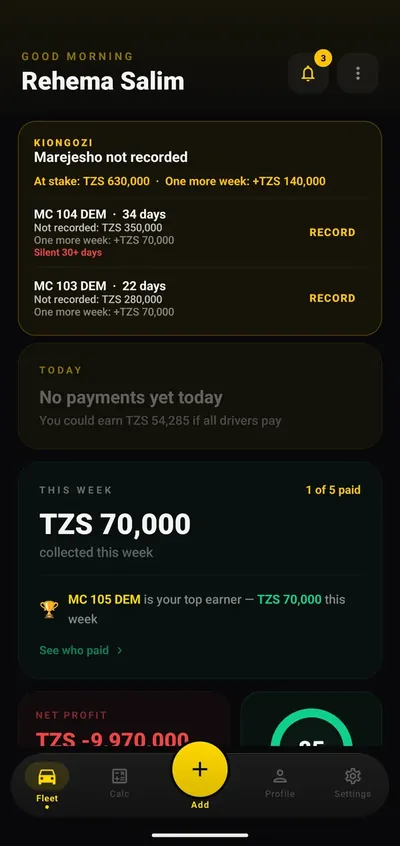
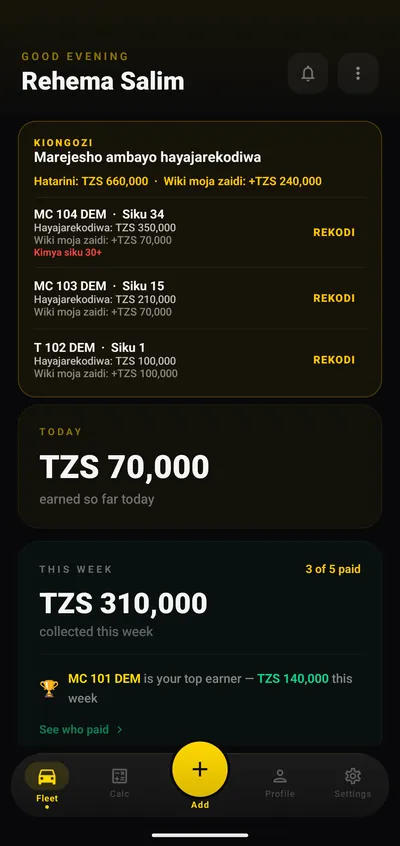
Founder page: TikTok and EMD Survival section; retake owner screenshots with positive demo profit
- TikTok @drallysaid in founder links and Person sameAs (founder page and homepage)
- "Health innovation — EMD Survival" section on the founder page (EN + SW)
- owner-kiongozi retaken and new owner-profit shot (net profit TZS 1,040,000, demo fleet);
  old fleet-list shot removed

diff --git a/index.html b/index.html
@@ -104,7 +104,8 @@
         "https://www.linkedin.com/in/dr-ally-said-tz/",
         "https://www.facebook.com/drallysaidtz",
         "https://www.upwork.com/freelancers/drallysaidtz",
-        "https://github.com/DrAlly05"
+        "https://github.com/DrAlly05",
+        "https://www.tiktok.com/@drallysaid"
       ]
     },
     {
@@ -546,9 +547,9 @@
       <h2 data-i18n="scr_h2">Real screens from LUNO 1.2.0.</h2>
     </div>
     <div class="shots">
-      <figure><div class="phone"><img src="assets/screens/owner-kiongozi.webp" srcset="assets/screens/owner-kiongozi-400.webp 400w, assets/screens/owner-kiongozi.webp 600w" sizes="(min-width: 720px) 280px, 76vw" width="600" height="1269" loading="lazy" alt="Owner dashboard on Android with a Kiongozi note listing two vehicles whose payments have not been recorded and the amount at stake." data-i18n-alt="alt_s1"></div><figcaption><b data-i18n="c1_b">Kiongozi speaks first.</b><span data-i18n="c1_t">The owner opens the app and sees which contracts need attention.</span><br><small>Android</small></figcaption></figure>
+      <figure><div class="phone"><img src="assets/screens/owner-kiongozi.webp" srcset="assets/screens/owner-kiongozi-400.webp 400w, assets/screens/owner-kiongozi.webp 600w" sizes="(min-width: 720px) 280px, 76vw" width="600" height="1269" loading="lazy" alt="Owner dashboard on Android with a Kiongozi note, in Kiswahili, listing three vehicles whose payments have not been recorded and the amount at stake." data-i18n-alt="alt_s1"></div><figcaption><b data-i18n="c1_b">Kiongozi speaks first.</b><span data-i18n="c1_t">The owner opens the app and sees which contracts need attention.</span><br><small>Android</small></figcaption></figure>
       <figure><div class="phone"><img src="assets/screens/owner-verify.webp" srcset="assets/screens/owner-verify-400.webp 400w, assets/screens/owner-verify.webp 600w" sizes="(min-width: 720px) 280px, 76vw" width="600" height="1269" loading="lazy" alt="Pending payments sheet on Android where the owner approves or rejects each driver payment with its reference." data-i18n-alt="alt_s2"></div><figcaption><b data-i18n="c2_b">Approve from anywhere.</b><span data-i18n="c2_t">Each payment arrives with its reference. One tap to approve or reject.</span><br><small>Android</small></figcaption></figure>
-      <figure><div class="phone"><img src="assets/screens/owner-fleet.webp" srcset="assets/screens/owner-fleet-400.webp 400w, assets/screens/owner-fleet.webp 600w" sizes="(min-width: 720px) 280px, 76vw" width="600" height="1269" loading="lazy" alt="Owner fleet list on Android showing each vehicle, its driver, percent paid, amount left and days remaining." data-i18n-alt="alt_s3"></div><figcaption><b data-i18n="c3_b">The whole fleet, one list.</b><span data-i18n="c3_t">Percent paid, amount left and days to go for every vehicle.</span><br><small>Android</small></figcaption></figure>
+      <figure><div class="phone"><img src="assets/screens/owner-profit.webp" srcset="assets/screens/owner-profit-400.webp 400w, assets/screens/owner-profit.webp 600w" sizes="(min-width: 720px) 280px, 76vw" width="600" height="1269" loading="lazy" alt="Owner dashboard on Android showing this week's collections, a net profit of TZS 1,040,000 with investment recovered, fleet health 76, and revenue against money invested." data-i18n-alt="alt_s3"></div><figcaption><b data-i18n="c3_b">Your fleet's real numbers.</b><span data-i18n="c3_t">Revenue, money invested, net profit and fleet health. Only the owner sees them.</span><br><small>Android</small></figcaption></figure>
       <figure><div class="phone"><img src="assets/screens/driver-payments.webp" srcset="assets/screens/driver-payments-400.webp 400w, assets/screens/driver-payments.webp 600w" sizes="(min-width: 720px) 280px, 76vw" width="600" height="1235" loading="lazy" alt="Driver payment history on iPhone in Kiswahili: weekly payments of TZS 70,000, each marked verified." data-i18n-alt="alt_s4"></div><figcaption><b data-i18n="c4_b">Every payment, verified.</b><span data-i18n="c4_t">The driver's own history, in Kiswahili, with the owner's approval on each line.</span><br><small>iPhone</small></figcaption></figure>
     </div>
     <p class="demo-note" data-i18n="demo_note">Screens show a demo account with made-up names and plates.</p>
@@ -604,6 +605,7 @@
           <a href="https://www.facebook.com/drallysaidtz" target="_blank" rel="noopener me">Facebook</a>
           <a href="https://www.upwork.com/freelancers/drallysaidtz" target="_blank" rel="noopener me">Upwork</a>
           <a href="https://github.com/DrAlly05" target="_blank" rel="noopener me">GitHub</a>
+          <a href="https://www.tiktok.com/@drallysaid" target="_blank" rel="noopener me">TikTok</a>
         </div>
       </div>
     </div>
@@ -758,11 +760,11 @@
     scr_eyebrow:'Ndani ya app',scr_h2:'Skrini halisi za LUNO 1.2.0.',
     c1_b:'Kiongozi anaanza.',c1_t:'Mmiliki anafungua app na kuona mikataba inayohitaji uangalizi.',
     c2_b:'Thibitisha ukiwa popote.',c2_t:'Kila malipo yanakuja na namba ya muamala. Gusa mara moja kukubali au kukataa.',
-    c3_b:'Vyombo vyote, orodha moja.',c3_t:'Asilimia iliyolipwa, kiasi kilichobaki na siku zilizobaki kwa kila chombo.',
+    c3_b:'Hesabu halisi za vyombo vyako.',c3_t:'Mapato, fedha uliyowekeza, faida halisi na afya ya vyombo. Anaziona mmiliki peke yake.',
     c4_b:'Kila malipo, yamethibitishwa.',c4_t:'Historia ya dereva mwenyewe, kwa Kiswahili, na uthibitisho wa mmiliki kwenye kila mstari.',
-    alt_s1:'Dashibodi ya mmiliki kwenye Android yenye ujumbe wa Kiongozi unaoonyesha vyombo viwili ambavyo malipo yake hayajarekodiwa na kiasi kilicho hatarini.',
+    alt_s1:'Dashibodi ya mmiliki kwenye Android yenye ujumbe wa Kiongozi unaoonyesha vyombo vitatu ambavyo malipo yake hayajarekodiwa na kiasi kilicho hatarini.',
     alt_s2:'Malipo yanayosubiri kwenye Android, mmiliki anakubali au anakataa kila malipo ya dereva pamoja na namba ya muamala.',
-    alt_s3:'Orodha ya vyombo vya mmiliki kwenye Android: kila chombo, dereva wake, asilimia iliyolipwa, kiasi kilichobaki na siku zilizobaki.',
+    alt_s3:'Dashibodi ya mmiliki kwenye Android: makusanyo ya wiki hii, faida halisi ya TZS 1,040,000 na uwekezaji umerudi, afya ya vyombo 76, na mapato dhidi ya fedha zilizowekezwa.',
     alt_s4:'Historia ya malipo ya dereva kwenye iPhone: malipo ya kila wiki ya TZS 70,000, kila moja limethibitishwa.',
     demo_note:'Skrini zinaonyesha akaunti ya majaribio yenye majina na namba za usajili za kubuni.',
     fleet_eyebrow:'Barabarani',fleet_h2:'Vyombo nyuma ya rekodi.',

diff --git a/dr-ally-said.html b/dr-ally-said.html
@@ -71,7 +71,8 @@
       "https://www.linkedin.com/in/dr-ally-said-tz/",
       "https://www.facebook.com/drallysaidtz",
       "https://www.upwork.com/freelancers/drallysaidtz",
-      "https://github.com/DrAlly05"
+      "https://github.com/DrAlly05",
+      "https://www.tiktok.com/@drallysaid"
     ]
   }
 }
@@ -163,6 +164,7 @@
           <a href="https://www.facebook.com/drallysaidtz" target="_blank" rel="noopener me"><svg viewBox="0 0 24 24" aria-hidden="true"><path d="M24 12.07C24 5.41 18.63 0 12 0S0 5.4 0 12.07C0 18.1 4.39 23.1 10.13 24v-8.44H7.08v-3.49h3.05v-2.66c0-3.03 1.79-4.7 4.53-4.7 1.31 0 2.68.24 2.68.24v2.97h-1.51c-1.49 0-1.95.93-1.95 1.89v2.26h3.32l-.53 3.49h-2.79V24C19.62 23.1 24 18.1 24 12.07z"/></svg>Facebook</a>
           <a href="https://www.upwork.com/freelancers/drallysaidtz" target="_blank" rel="noopener me">Upwork</a>
           <a href="https://github.com/DrAlly05" target="_blank" rel="noopener me"><svg viewBox="0 0 24 24" aria-hidden="true"><path d="M12 .3a12 12 0 0 0-3.8 23.4c.6.1.8-.3.8-.6v-2.2c-3.3.7-4-1.4-4-1.4-.6-1.4-1.4-1.8-1.4-1.8-1.1-.7.1-.7.1-.7 1.2.1 1.8 1.2 1.8 1.2 1.1 1.8 2.8 1.3 3.5 1 .1-.8.4-1.3.8-1.6-2.7-.3-5.5-1.3-5.5-5.9 0-1.3.5-2.4 1.2-3.2-.1-.3-.5-1.5.1-3.2 0 0 1-.3 3.3 1.2a11.5 11.5 0 0 1 6 0c2.3-1.5 3.3-1.2 3.3-1.2.6 1.7.2 2.9.1 3.2.8.8 1.2 1.9 1.2 3.2 0 4.6-2.8 5.6-5.5 5.9.4.4.8 1.1.8 2.2v3.3c0 .3.2.7.8.6A12 12 0 0 0 12 .3"/></svg>GitHub</a>
+          <a href="https://www.tiktok.com/@drallysaid" target="_blank" rel="noopener me"><svg viewBox="0 0 24 24" aria-hidden="true"><path d="M12.53.02c1.31-.02 2.61-.01 3.91-.02.08 1.53.63 3.09 1.75 4.17 1.12 1.11 2.7 1.62 4.24 1.79v4.03c-1.44-.05-2.89-.35-4.2-.97-.57-.26-1.1-.59-1.62-.93-.01 2.92.01 5.84-.02 8.75-.08 1.4-.54 2.79-1.35 3.94-1.31 1.92-3.58 3.17-5.91 3.21-1.43.08-2.86-.31-4.08-1.03-2.02-1.19-3.44-3.37-3.65-5.71-.02-.5-.03-1-.01-1.49.18-1.9 1.12-3.72 2.58-4.96 1.66-1.44 3.98-2.13 6.15-1.72.02 1.48-.04 2.96-.04 4.44-.99-.32-2.15-.23-3.02.37-.63.41-1.11 1.04-1.36 1.75-.21.51-.15 1.07-.14 1.61.24 1.64 1.82 3.02 3.5 2.87 1.12-.01 2.19-.66 2.77-1.61.19-.33.4-.67.41-1.06.1-1.79.06-3.57.07-5.36.01-4.03-.01-8.05.02-12.07z"/></svg>TikTok</a>
         </div>
       </div>
     </div>
@@ -175,6 +177,14 @@
       <p>He also owns a fleet of bodaboda and bajaji. He runs it the way most owners do: weekly payments, drivers working toward owning their vehicle, and records that are easy to lose.</p>
       <p><strong>He is the founder of LUNO and builds it himself.</strong> LUNO is the tool he wanted for his own fleet: one shared record of the contract, the payments and the freedom date, for the owner and the driver alike.</p>
       <p>He writes in Kiswahili about poverty, health and life.</p>
+    </div>
+  </section>
+
+  <section aria-labelledby="health">
+    <div class="wrap prose">
+      <h2 id="health">Health innovation — EMD Survival</h2>
+      <p>EMD Survival is a web app he built for emergency medicine residents. It shows each resident their shifts and rotations for the month, who is on duty with them and who they hand over to, and the teaching days and exams coming up.</p>
+      <p>It also has a private check-in on sleep and wellbeing. Nothing in it is sent with the resident's name.</p>
     </div>
   </section>
 
@@ -215,6 +225,10 @@
       <p>Pia anamiliki bodaboda na bajaji. Anaziendesha kama wamiliki wengi: malipo ya kila wiki, madereva wanaolipia kuelekea kumiliki vyombo vyao, na kumbukumbu ambazo ni rahisi kupotea.</p>
       <p><strong>Yeye ndiye mwanzilishi wa LUNO na anaijenga mwenyewe.</strong> LUNO ni chombo alichokihitaji kwa vyombo vyake mwenyewe: rekodi moja ya pamoja ya mkataba, malipo na siku ya uhuru, kwa mmiliki na dereva.</p>
       <p>Anaandika kwa Kiswahili kuhusu umaskini, afya na maisha.</p>
+
+      <h2 style="margin-top:40px">Ubunifu katika afya — EMD Survival</h2>
+      <p>EMD Survival ni programu ya mtandaoni aliyoijenga kwa madaktari wanaosomea utaalamu wa tiba ya dharura. Inamwonyesha kila mmoja zamu na mizunguko yake ya mwezi, walio zamu pamoja naye na anayemkabidhi zamu, pamoja na siku za masomo na mitihani inayokuja.</p>
+      <p>Pia ina sehemu binafsi ya kujipima usingizi na hali ya ustawi. Hakuna kinachotumwa pamoja na jina lake.</p>
 
       <h2 style="margin-top:40px">Vitabu — anaandika kama Dr. Robert T. Zholanga</h2>
       <div class="books">

diff --git a/docs/decisions.md b/docs/decisions.md
@@ -2,6 +2,16 @@
 
 Newest first. Each entry: what was decided, why, and what is permanent.
 
+## 2026-10-17 — Before publishing the redesign
+
+- Founder page: TikTok `https://www.tiktok.com/@drallysaid` added to the links and to Person `sameAs`
+  (founder page and homepage).
+- Founder page: "Health innovation — EMD Survival" section (EN + SW), described from the app itself.
+  Not linked publicly on purpose: its roster shows colleagues' real names and rotations.
+- Owner screenshots retaken after maturing the LOCAL demo fleet (TZS 18.14M collected vs 17.1M invested):
+  `owner-kiongozi` (Kiongozi note) and new `owner-profit` (net profit TZS 1,040,000). The old fleet-list
+  shot was dropped because it showed older demo numbers than the driver shot.
+
 ## 2026-10-17 — Homepage redesign and founder page (branch `redesign`, not live)
 
 - **Look:** ink `#08080A`, mint `#0ECF8A`, text `#F2F4F3`; Bricolage Grotesque (headlines) + Manrope (body),
